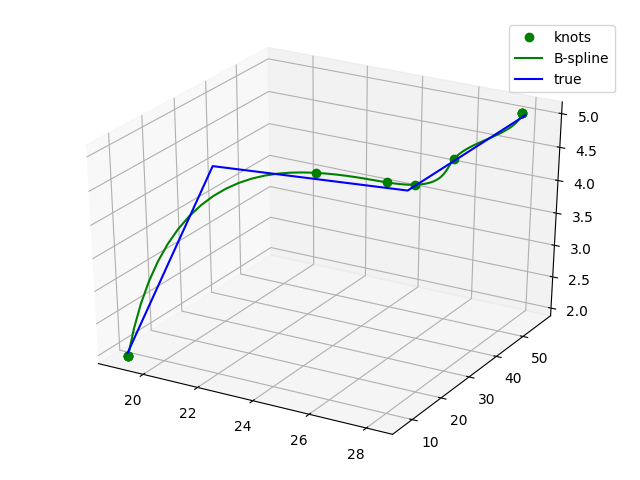
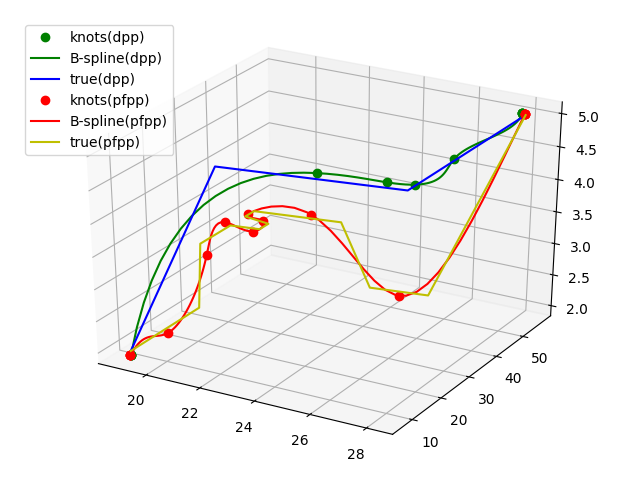
finish potential field path planning'

diff --git a/src/potential_field_path_planning.py b/src/potential_field_path_planning.py
@@ -1,5 +1,6 @@
 import math
 import numpy as np
+import sys
 
 class PFPP:
 
@@ -13,7 +14,7 @@ class PFPP:
     boundary = []
     point_tree = None
     c_dist = 0      # Density of grid
-    safe_dist = 5   # closest distance to obstacle
+    potential_area = 30   # potential effective radius
 
     def cvt_coord_to_cube(self, index):
         res = []
@@ -40,20 +41,20 @@ class PFPP:
         # get distance to the nearest obstacle
         dist_to_obstacle = dis_map[x_ind][y_ind][z_ind]
         # calculate repulsive potential
-        if dist_to_obstacle <= self.safe_dist:
+        if dist_to_obstacle <= self.potential_area:
             if dist_to_obstacle < 0.1:
                 dist_to_obstacle = 0.1
-            re_po = 0.5 * self.ETA * (1.0 / dist_to_obstacle - 1.0 / self.safe_dist) ** 2
+            re_po = 0.5 * self.ETA * (1.0 / dist_to_obstacle - 1.0 / self.potential_area) ** 2
         else:
             re_po = 0
         return re_po
 
     # calculate the potential map
     def calculate_potential_field_map(self, dis_map):
-        potential_map = np.empty(self.dimension, dtype=object)
+        potential_map = self.nodes_list
         for i in range(self.dimension[0]):
-            for j in range(self.dimension[0]):
-                for k in range(self.dimension[0]):
+            for j in range(self.dimension[1]):
+                for k in range(self.dimension[2]):
                     attr_po = self.cal_attractive_potential(i, j, k)
                     rep_po = self.cal_repulsive_potential(i, j, k, dis_map)
                     po = attr_po + rep_po
@@ -62,42 +63,63 @@ class PFPP:
 
     # Using KdTree to calculate the nearest distance from each point to obstacle
     def get_near_dis_map(self):
-        coord_map = np.empty(self.dimension, dtype=object)
+        coord_map = self.nodes_list
         for i in range(self.dimension[0]):
             for j in range(self.dimension[1]):
                 for k in range(self.dimension[2]):
                     coord_map[i][j][k] = [self.boundary[0][0] + i * self.c_dist,
                                           self.boundary[0][1] + j * self.c_dist,
                                           self.boundary[0][2] + k * self.c_dist]
-        dis_map = self.point_tree.query(coord_map)
+        dis_map = self.point_tree.query(coord_map)[0]
         return dis_map
 
     def potential_field_planning(self):
         # Define parameters
-        from_node = []
+        from_node = {}
+        visited = np.empty(self.dimension, dtype=bool)
         dis_map = self.get_near_dis_map()
         potential_map = self.calculate_potential_field_map(dis_map)
-        # todo: find path based on potential_map, store the path in from_node
+
         gx, gy, gz = self.cvt_coord_to_cube(self.end_index)
         cx, cy, cz = self.cvt_coord_to_cube(self.start_index)
-        dist_to_end = self.c_dist * math.sqrt((cx - gx) ** 2 + (cy - gy) ** 2 + (cz - gz) ** 2)
-        next_step = [[-1, 0, 1],
-                     [-1, 0, 1],
-                     [-1, 0, 1]]
-
-        while dist_to_end < self.c_dist:
-            mind = float("inf")
+        from_node[self.cvt_coord_to_line([cx, cy, cz])] = None
+        cur_po = potential_map[cx][cy][cz]
+        while True:
+            dist_to_end = self.c_dist * math.sqrt((cx - gx) ** 2 + (cy - gy) ** 2 + (cz - gz) ** 2)
+            if dist_to_end < self.c_dist:
+                break
+            # avoid being trapped in local minimum
+            visited[cx][cy][cz] = True
+            min_po = float("inf")
+            # next x, y, z
+            nx = cx
+            ny = cy
+            nz = cz
             for i in range(-1, 2, 1):
                 for j in range(-1, 2, 1):
                     for k in range(-1, 2, 1):
                         nei_x, nei_y, nei_z = [cx + i, cy + j, cz + k]
-                        if nei_x < 0 or nei_x > self.dimension[0] or \
-                           nei_y < 0 or nei_y > self.dimension[1] or \
-                           nei_z < 0 or nei_z > self.dimension[2]:
+                        # continue on out of bound points
+                        if nei_x < 0 or nei_x >= self.dimension[0] or \
+                           nei_y < 0 or nei_y >= self.dimension[1] or \
+                           nei_z < 0 or nei_z >= self.dimension[2] or \
+                           visited[nei_x][nei_y][nei_z] is True:
                             continue
-
-
-        return from_node
+                        nei_po = potential_map[nei_x][nei_y][nei_z]
+                        if min_po > nei_po:
+                            min_po = nei_po
+                            nx = nei_x
+                            ny = nei_y
+                            nz = nei_z
+            if min_po == cur_po:
+                print("Trapped in Local Minimum / No Path!")
+                break
+            from_node[self.cvt_coord_to_line([nx, ny, nz])] = self.cvt_coord_to_line([cx, cy, cz])
+            cx = nx
+            cy = ny
+            cz = nz
+        last_node = self.cvt_coord_to_line([cx, cy, cz])
+        return last_node, from_node
 
     def main(self, nodes_list, dimension, boundary, start_end, point_tree, c_dis):
         print("Start Potential Field Path Planning")

diff --git a/src/path_planning.py b/src/path_planning.py
@@ -4,11 +4,11 @@ import scipy.spatial as spatial
 import math
 import random
 import dijkstra_path_planning as dpp
-import potential_field_path_planning as pfpp
+from potential_field_path_planning import PFPP
 import sys
 
 
-def print_path(end_index, from_node):
+def print_path(end_index, from_node, method):
     prev = end_index
     path = []
     while prev is not None:
@@ -16,9 +16,14 @@ def print_path(end_index, from_node):
         prev = from_node[prev]
     path.reverse()
     print("path index: ", path)
-    with open('../data/path.txt', 'w') as fp:
-        for item in path:
-            fp.write("%s," % item)
+    if method == "dpp":
+        with open('../data/path_dpp.txt', 'w') as fp:
+            for item in path:
+                fp.write("%s," % item)
+    if method == "pfpp":
+        with open('../data/path_pfpp.txt', 'w') as fp:
+            for item in path:
+                fp.write("%s," % item)
 
 
 def cvt_coord_to_line(index_list, dimension):
@@ -95,19 +100,23 @@ def main():
     # Build Grid in the space
     nodes_list, dimension, boundary, point_tree = build_grid(parameter)
     print("Build Grid Finish!")
-    print("dimension: ", dimension)
-    print("boundary: ", boundary)
+    print("boundary:\n", boundary)
+    print("dimension:\n", dimension)
 
     # Get start and end points
     start_end = get_start_end(dimension, create_new_start)
     print("Get Start and End Finish!", start_end)
 
     # Implement Dijkstra's Algorithm to find shortest path
-    # index, from_node = dpp.dijk(dimension, boundary, point_tree, nodes_list, start_end)
-    # print_path(index, from_node)
+    end_index_dpp, from_node_dpp = dpp.dijk(dimension, boundary, point_tree, nodes_list, start_end)
+    print("Path Found by Dijkstra's Shortest Path:")
+    print_path(end_index_dpp, from_node_dpp, "dpp")
 
     # Implement Potential Field Path Planning
-    pfpp.main(nodes_list, dimension, boundary, start_end, point_tree, c_dis)
+    pfpp = PFPP()
+    end_index_pfpp, from_node_pfpp = pfpp.main(nodes_list, dimension, boundary, start_end, point_tree, c_dis)
+    print("Path Found by Potential Field PP:")
+    print_path(end_index_pfpp, from_node_pfpp, "pfpp")
 
 
 if __name__ == '__main__':

diff --git a/src/spline.py b/src/spline.py
@@ -24,11 +24,17 @@ def cvt_coord_to_cube(index):
     return res
 
 
-with open('../data/path.txt', 'r') as fp:
+fig2 = plt.figure(2)
+ax3d = fig2.add_subplot(111, projection='3d')
+
+# Load Dijkstra's path
+with open('../data/path_dpp.txt', 'r') as fp:
     path = fp.read().split(',')
 del path[-1]
 path = list(map(int, path))
 print("path ", path)
+
+# Load dimension data
 with open('../data/dimension.txt', 'r') as fp:
     dimension = fp.read().split(',')
 del dimension[-1]
@@ -50,11 +56,39 @@ x_knots, y_knots, z_knots = interpolate.splev(tck[0], tck)
 u_sample = np.linspace(0, 1, num_sample_pts)
 x_sp, y_sp, z_sp = interpolate.splev(u_sample, tck)
 
-fig2 = plt.figure(2)
-ax3d = fig2.add_subplot(111, projection='3d')
-ax3d.plot(x_knots, y_knots, z_knots, 'go', label='knots')
-ax3d.plot(x_sp, y_sp, z_sp, 'g', label='B-spline')
-ax3d.plot(x, y, z, 'b', label='true')
+ax3d.plot(x_knots, y_knots, z_knots, 'go', label='knots(dpp)')
+ax3d.plot(x_sp, y_sp, z_sp, 'g', label='B-spline(dpp)')
+ax3d.plot(x, y, z, 'b', label='true(dpp)')
+
+
+# PFPP
+
+# Load Dijkstra's path
+with open('../data/path_pfpp.txt', 'r') as fp:
+    path = fp.read().split(',')
+del path[-1]
+path = list(map(int, path))
+print("path ", path)
+
+#  convert index to xyz coordinate
+x, y, z = [], [], []
+for item in path:
+    coord = cvt_coord_to_cube(item)
+    x.append(coord[0])
+    y.append(coord[1])
+    z.append(coord[2])
+
+# spline interpolation
+num_sample_pts = 100
+tck, u = interpolate.splprep([x, y, z], s=2)
+x_knots, y_knots, z_knots = interpolate.splev(tck[0], tck)
+u_sample = np.linspace(0, 1, num_sample_pts)
+x_sp, y_sp, z_sp = interpolate.splev(u_sample, tck)
+
+
+ax3d.plot(x_knots, y_knots, z_knots, 'ro', label='knots(pfpp)')
+ax3d.plot(x_sp, y_sp, z_sp, 'r', label='B-spline(pfpp)')
+ax3d.plot(x, y, z, 'y', label='true(pfpp)')
 ax3d.legend()
 fig2.show()
 plt.show()

diff --git a/src/dijkstra_path_planning.py b/src/dijkstra_path_planning.py
@@ -25,19 +25,6 @@ def cvt_coord_to_cube(index, dimension):
     return res
 
 
-def print_path(end_index, from_node):
-    prev = end_index
-    path = []
-    while prev is not None:
-        path.append(prev)
-        prev = from_node[prev]
-    path.reverse()
-    print("path index: ", path)
-    with open('../data/path.txt', 'w') as fp:
-        for item in path:
-            fp.write("%s," % item)
-
-
 class Node:
     def __init__(self, x, y, z):
         self.x = x
@@ -167,7 +154,6 @@ def dijk(dimension, boundary, point_tree, nodes_list, start_end):
         if not candidates:
             sys.exit("No Path!")
         current_index, current_wei = sorted(candidates, key=lambda x: x[1])[0]
-
     return end_index, from_node
     # print(visited[end_index])
 
